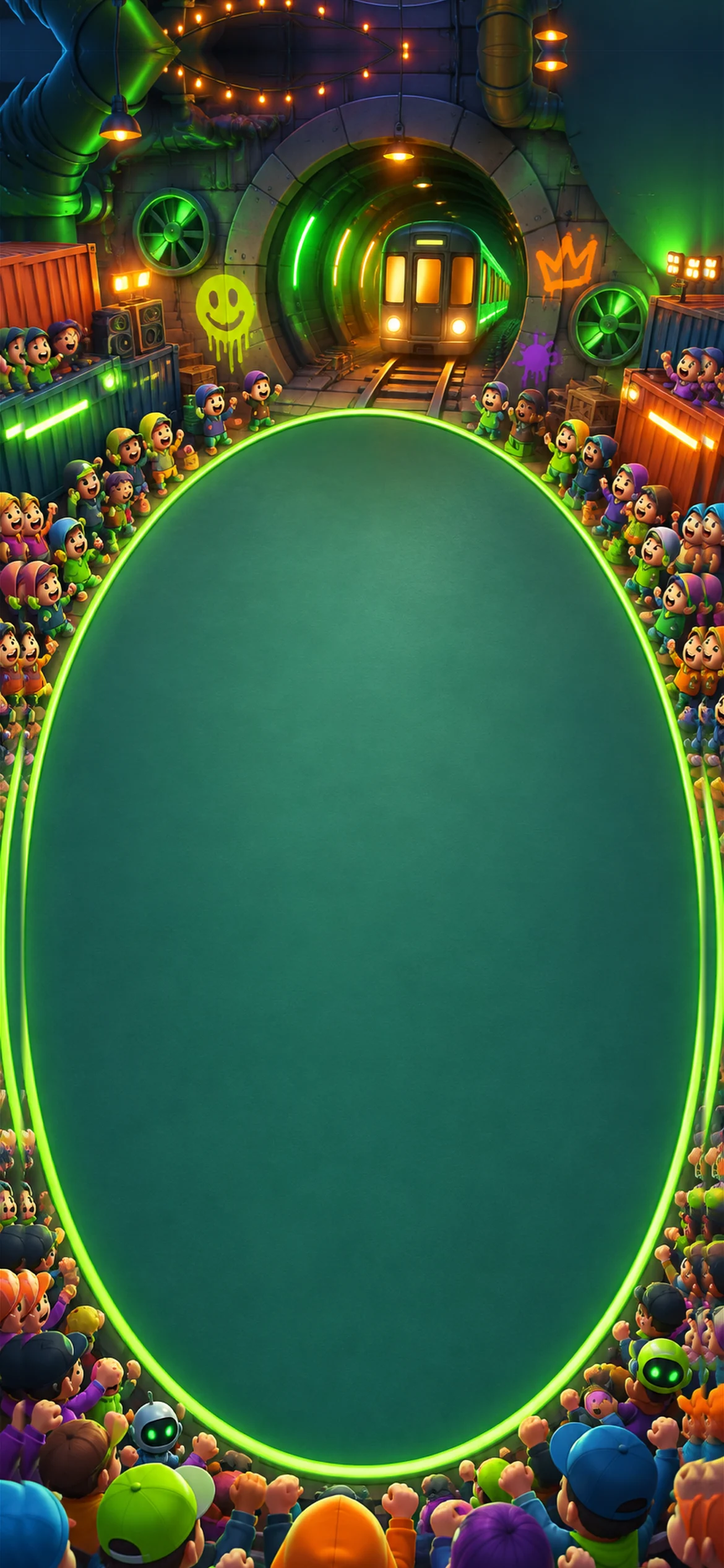
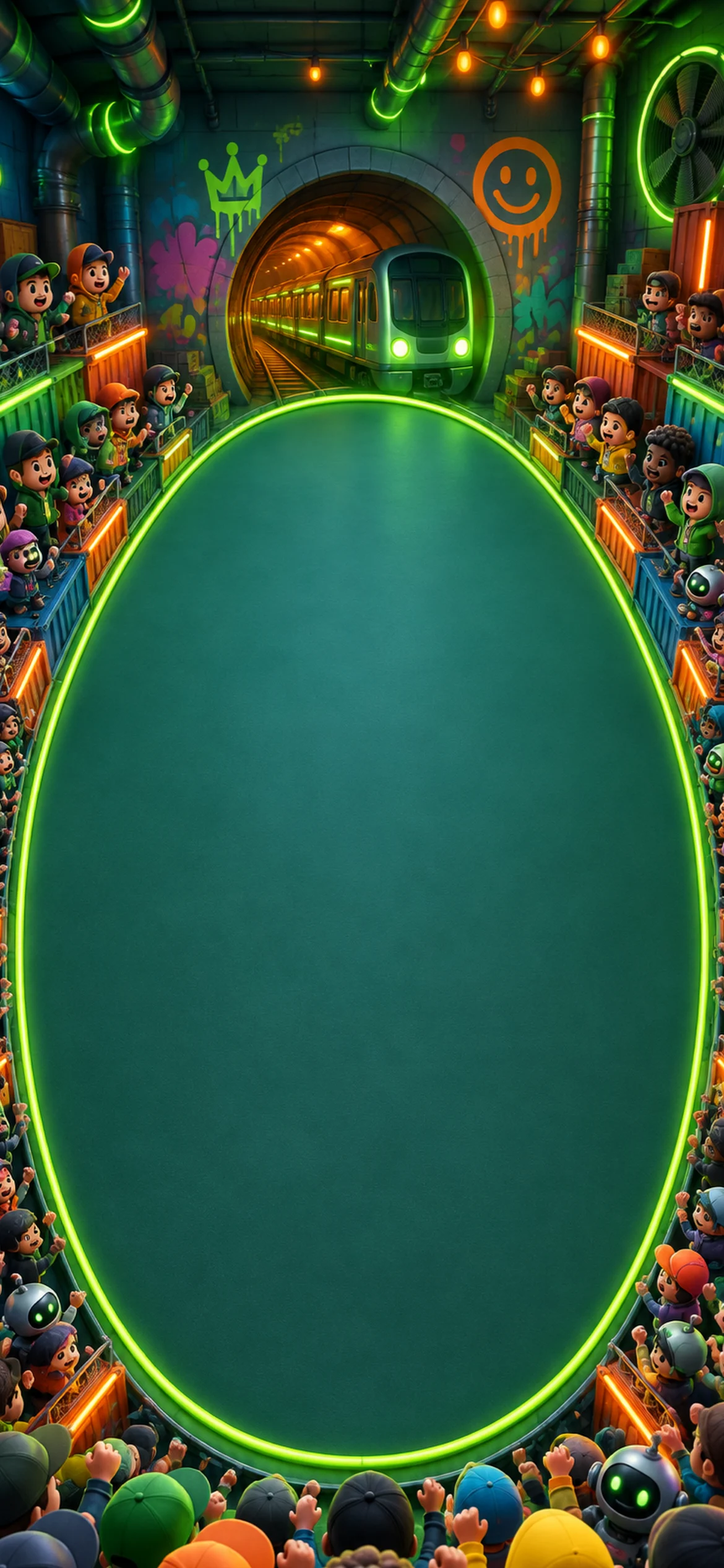
Subway: new plate with real side stands (side fill was doubling the neon ring)
Claude-Session: https://claude.ai/code/session_01EnXvJ6P6HcGRxjBSnYPdAU

diff --git a/art/grounds/ART_PACKAGE.md b/art/grounds/ART_PACKAGE.md
@@ -235,6 +235,6 @@ lavalake {44,738,417}, tiki {75,727,417}, forge {49,765,314}.
 Space Station (19.c) top: the blurred colour fill replaced with mirrored wall at the sides + clean stars across the window (Joe: "blurred at the top").
 
 ## 21. Neon — tne_city / tne_rooftop / tne_esports / tne_subway
-Plates 493:191 (navy floor 1.591, third try), 493:192 (dark roof 1.618, second try), 493:193 (pale arena 1.577), 493:194 (teal concrete 1.566).
+Plates 493:191 (navy floor 1.591, third try), 493:192 (dark roof 1.618, second try), 493:193 (pale arena 1.577), 493:194 (teal concrete 1.604, redone: first version touched the picture edges so the side fill doubled the neon ring).
 Boards/props/words 493:195–206 (city + rooftop on green key; boards re-keyed to magenta before compose). Pitches: city {54,743,415},
 rooftop {46,790,406}, esports {60,795,384}, subway {83,715,360}. Uncovered plate tops now filled by mirroring the painted rows (no blur fill).
